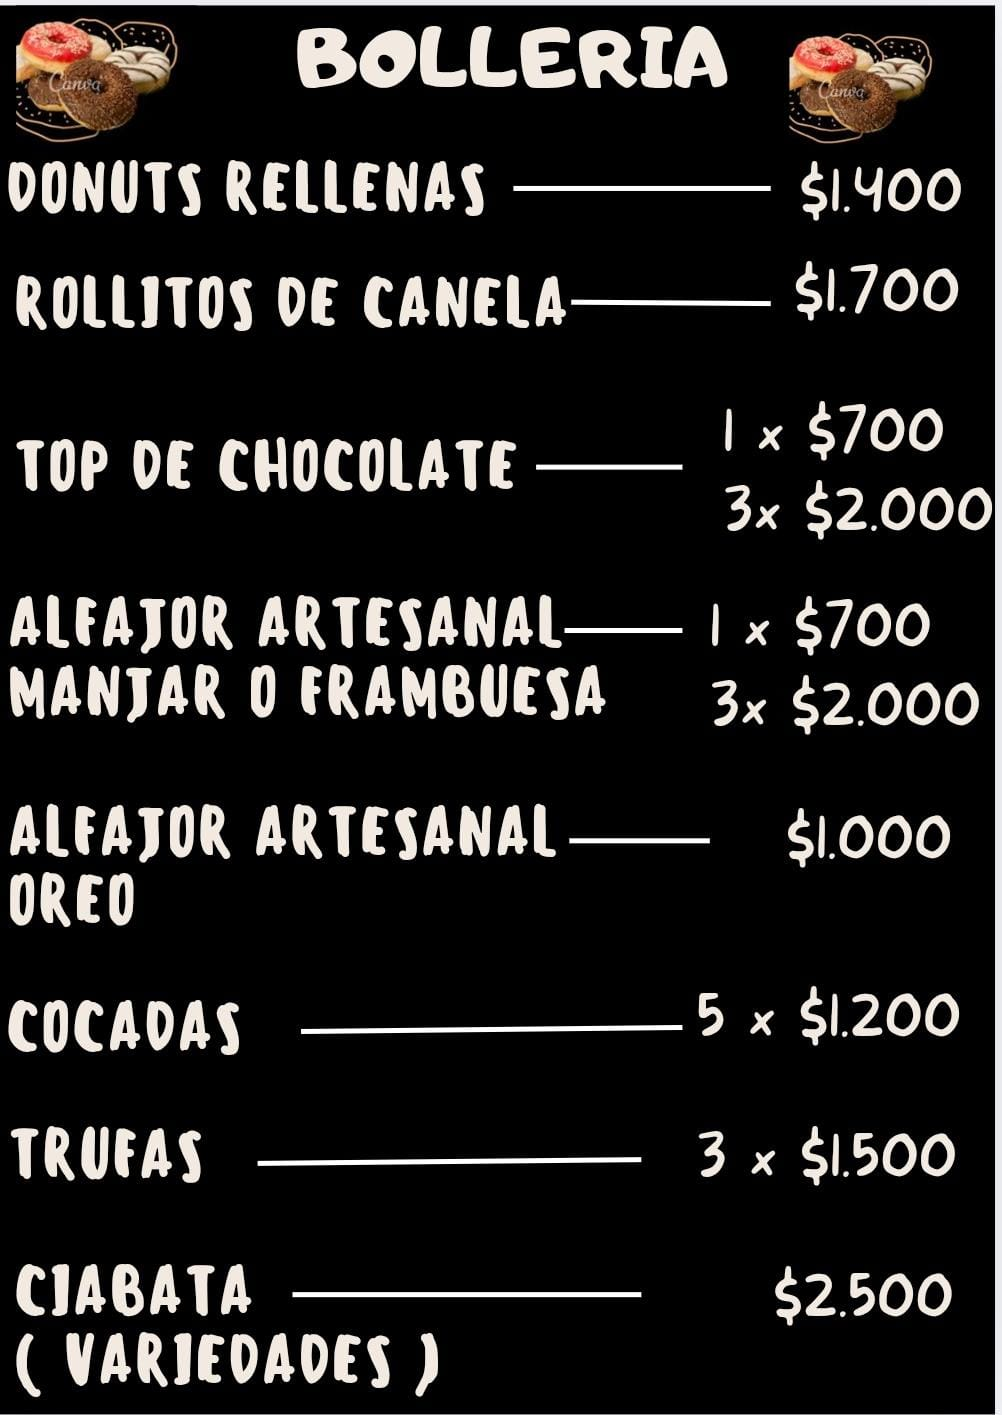
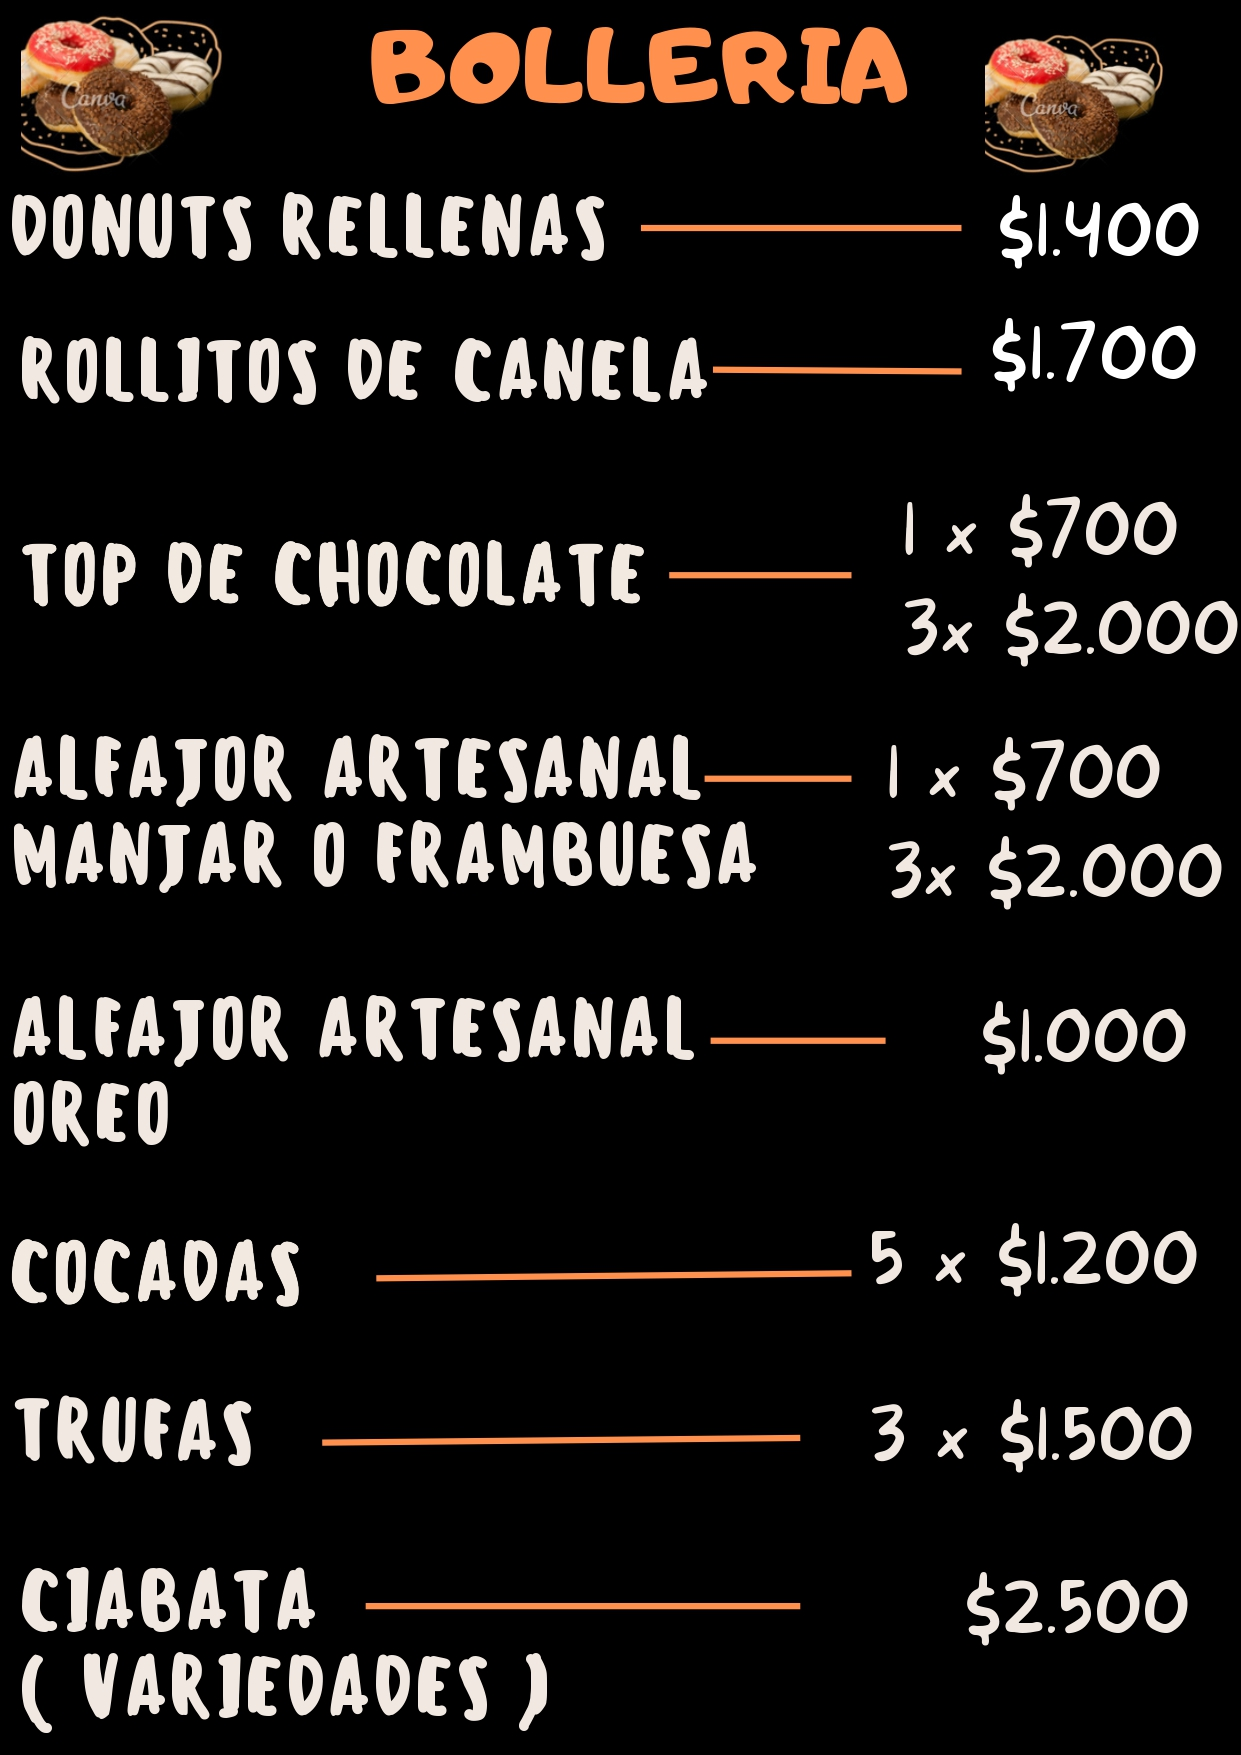
updates

diff --git a/style.css b/style.css
@@ -3,15 +3,22 @@
 body {
   margin: 0;
   font-family: 'Poppins', sans-serif;
-  background-color: #fffaf5;
+  background-color: #000000;
   color: #333;
   text-align: center;
 }
 
 header {
-  background-color: #2c3e50;
+  background-color: #e67e22;
   color: white;
   padding: 2rem 0;
+}
+
+header p {
+  color: white;
+  font-family: 'Pacifico', cursive;
+  font-size: 1.5rem;
+  margin: 0;
 }
 
 .logo {
@@ -24,9 +31,11 @@ header {
   padding: 2rem;
 }
 
-.menu-page img {
-  width: 90%;
-  max-width: 400px;
+.menu-page img,
+.logo-principal {
+  width: 350px;
+  height: auto;
+  max-height: 500px;
   border-radius: 12px;
   margin-top: 1rem;
 }
@@ -36,47 +45,85 @@ header {
 }
 
 .pagination {
-  margin: 1rem;
+  display: flex;
+  flex-wrap: wrap;
+  justify-content: center;
+  gap: 0.75rem;
+  margin: 1rem auto;
+  max-width: 90%;
 }
 
 .pagination button {
-  margin: 0 0.5rem;
-  padding: 0.5rem 1rem;
-  font-size: 1rem;
-  background-color: #3498db;
+  padding: 0.6rem 1.1rem;
+  font-size: 1.05rem;
+  background-color: #e67e22;
   color: white;
   border: none;
+  border-top: none;
   border-radius: 8px;
   cursor: pointer;
   transition: background-color 0.3s;
   font-family: 'Pacifico', cursive;
   transform: skewX(-10deg);
+  outline: none;
+  text-decoration: none;
+  box-shadow: none;
+}
+
+.pagination button:focus,
+.pagination button:focus-visible {
+  outline: none;
+  text-decoration: none;
+  box-shadow: none !important;
+  border: none;
+  border-top: none;
+}
+
+#btn-inicio {
+  position: fixed;
+  bottom: 20px;
+  right: 20px;
+  width: 50px;
+  height: 50px;
+  z-index: 999;
+}
+
+#btn-inicio img {
+  width: 100%;
+  height: 100%;
+  object-fit: contain;
+  transition: transform 0.2s ease-in-out;
+}
+
+#btn-inicio img:hover {
+  transform: scale(1.1);
 }
 
 .pagination button:hover {
-  background-color: #2980b9;
+  background-color: #d35400;
 }
 
 footer {
   display: flex;
-  justify-content: space-between;
-  align-items: flex-end;
-  padding: 1.5rem 2rem;
-  flex-wrap: wrap;
-  background-color: #f5f5f5;
+  flex-direction: column;
+  align-items: center;
+  justify-content: center;
+  padding: 2rem;
+  background-color: #000000;
+  color: white;
 }
 
 .footer-info {
-  text-align: left;
+  text-align: center;
   display: flex;
   flex-direction: column;
-  align-items: flex-start;
+  align-items: center;
 }
 
 .direccion {
   margin: 0;
   font-size: 0.95rem;
-  color: #555;
+  color: white;
 }
 
 .direccion a {
@@ -90,12 +137,13 @@ footer {
 
 .footer-redes {
   margin-bottom: 0.5rem;
+  display: flex;
+  gap: 12px;
 }
 
 .social-icon {
   width: 36px;
   height: 36px;
-  margin: 0 8px 8px 0;
   vertical-align: middle;
   transition: transform 0.2s ease-in-out;
 }
@@ -104,8 +152,26 @@ footer {
   transform: scale(1.2);
 }
 
+.imagen-doble {
+  display: flex;
+  flex-wrap: wrap;
+  justify-content: center;
+  gap: 1rem;
+  margin-top: 1rem;
+}
+
+.imagen-doble img {
+  width: 45%;
+  max-width: 300px;
+  height: auto;
+  border-radius: 12px;
+}
+
 @media (max-width: 600px) {
-  .menu-page img {
+  .menu-page img,
+  .logo-principal {
     width: 100%;
+    height: auto;
+    max-height: 400px;
   }
 }

diff --git a/index.html b/index.html
@@ -9,43 +9,45 @@
 </head>
 <body>
   <header>
-    <img src="images/laestacion-icon.png" alt="Logo La Estación" class="logo">
     <p>Descubre nuestro delicioso menú</p>
   </header>
 
   <main>
     <section class="menu-page" id="page1">
-      <img src="images/laestacion-icon.png" alt="Logo Principal" class="logo-principal">
+      <img src="images/logo-estacion.jpg" alt="Logo Principal" class="logo-principal">
     </section>
 
     <section class="menu-page hidden" id="page2">
-      <h2>Promociones</h2>
+      <h2></h2>
       <img src="images/promociones.jpg" alt="Waffles">
     </section>
 
-    <section class="menu-page hidden" id="page2">
-      <h2>Cafetería</h2>
+    <section class="menu-page hidden" id="page3">
+      <h2></h2>
       <img src="images/cafe.jpg" alt="Waffles">
     </section>
 
-    <section class="menu-page hidden" id="page3">
-      <h2>Bollería</h2>
+    <section class="menu-page hidden" id="page4">
+      <h2></h2>
       <img src="images/bolleria.jpg" alt="Churros y Helados">
     </section>
 
-    <section class="menu-page hidden" id="page4">
-      <h2>Churros</h2>
-      <img src="images/churros.jpg" alt="Bebidas">
+    <section class="menu-page hidden" id="page5">
+      <h2></h2>
+      <img src="images/churros.jpg" alt="churros">
     </section>
 
-    <section class="menu-page hidden" id="page4">
-      <h2>Frituras</h2>
-      <img src="images/frituras.jpg" alt="Bebidas">
+    <section class="menu-page hidden" id="page6">
+      <h2></h2>
+      <img src="images/frituras.jpg" alt="frituras">
     </section>
 
-    <section class="menu-page hidden" id="page4">
+    <section class="menu-page hidden" id="page7">
       <h2>Waffles</h2>
-      <img src="images/waffle.jpg" alt="Bebidas">
+      <div class="imagen-doble">
+        <img src="images/waffle-dulce.jpg" alt="Waffle dulce">
+        <img src="images/waffles-salados.jpg" alt="Waffle salado">
+      </div>
     </section>
 
     <div class="pagination">
@@ -58,7 +60,7 @@
     </div>
   </main>
 
-  <footer>
+  <footer id="site-footer">
     <div class="footer-info">
       <div class="footer-redes">
         <a href="https://wa.me/56937225932" target="_blank">
@@ -77,5 +79,8 @@
   </footer>
 
   <script src="script.js"></script>
+  <a href="javascript:showPage(1)" id="btn-inicio">
+    <img src="images/inicio.png" alt="Volver al inicio">
+  </a>
 </body>
 </html>

diff --git a/script.js b/script.js
@@ -1,11 +1,19 @@
 function showPage(pageNumber) {
-    const pages = document.querySelectorAll('.menu-page');
-    pages.forEach((page, index) => {
-      if (index === pageNumber - 1) {
-        page.classList.remove('hidden');
-      } else {
-        page.classList.add('hidden');
-      }
-    });
+  const pages = document.querySelectorAll('.menu-page');
+  const footer = document.getElementById('site-footer');
+
+  pages.forEach((page, index) => {
+    if (index === pageNumber - 1) {
+      page.classList.remove('hidden');
+    } else {
+      page.classList.add('hidden');
+    }
+  });
+
+  // Mostrar el footer solo en la página principal (page1)
+  if (pageNumber === 1) {
+    footer.style.display = 'flex';
+  } else {
+    footer.style.display = 'none';
   }
-  
+}
